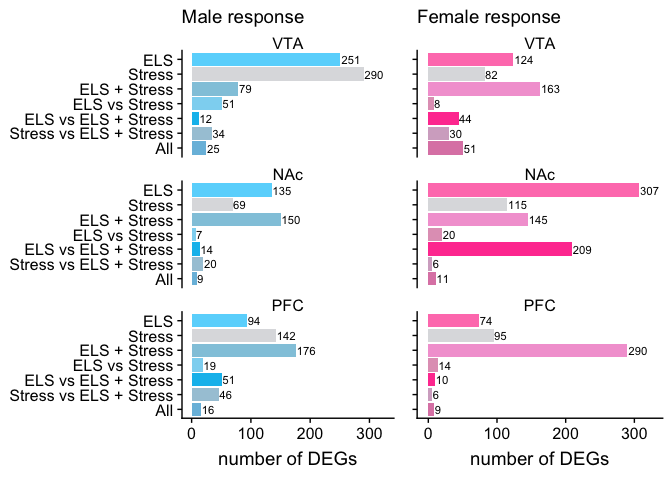
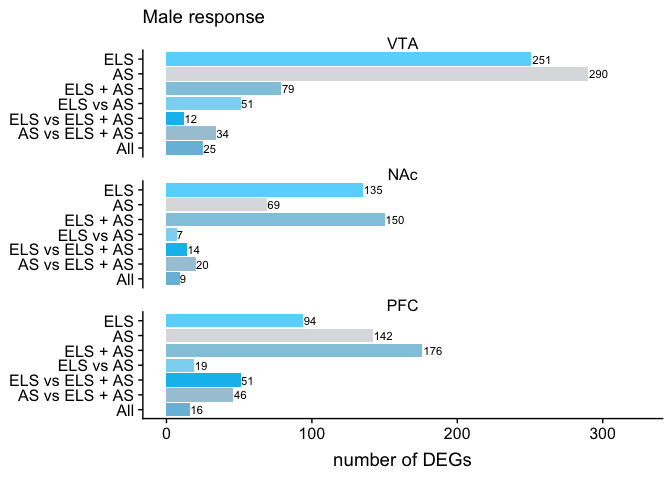
more figs, new name

diff --git a/fig1venn.md b/fig1venn.md
@@ -5,24 +5,35 @@
     knitr::opts_chunk$set(fig.path = './')
 
     fig1venn <- read.csv("fig1venn.csv")
+
+    head(fig1venn)
+
+    ##   panel    sex region group number
+    ## 1     a   male    VTA   ELS    251
+    ## 2     f female    VTA   ELS    124
+    ## 3     i   male    NAc   ELS    135
+    ## 4     n female    NAc   ELS    307
+    ## 5     q   male    PFC   ELS     94
+    ## 6     v female    PFC   ELS     74
+
     summary(fig1venn)
 
-    ##  panel     sex     region                      group       number     
-    ##  a:7   female:21   NAc:14   All                   :6   Min.   :  6.0  
-    ##  f:7   male  :21   PFC:14   ELS                   :6   1st Qu.: 14.5  
-    ##  i:7               VTA:14   ELS + Stress          :6   Median : 51.0  
-    ##  n:7                        ELS vs ELS + Stress   :6   Mean   : 83.4  
-    ##  q:7                        ELS vs Stress         :6   3rd Qu.:132.2  
-    ##  v:7                        Stress                :6   Max.   :307.0  
-    ##                             Stress vs ELS + Stress:6
+    ##  panel     sex     region               group       number     
+    ##  a:7   female:21   NAc:14   All            :6   Min.   :  6.0  
+    ##  f:7   male  :21   PFC:14   AS             :6   1st Qu.: 14.5  
+    ##  i:7               VTA:14   AS vs ELS + AS :6   Median : 51.0  
+    ##  n:7                        ELS            :6   Mean   : 83.4  
+    ##  q:7                        ELS + AS       :6   3rd Qu.:132.2  
+    ##  v:7                        ELS vs AS      :6   Max.   :307.0  
+    ##                             ELS vs ELS + AS:6
 
     fig1venn$region <- factor(fig1venn$region, levels = c("VTA", "NAc", "PFC")) 
     fig1venn$group <- factor(fig1venn$group, levels = c("All" ,  
-                                                           "Stress vs ELS + Stress",
-                                                           "ELS vs ELS + Stress" ,
-                                                           "ELS vs Stress",
-                                                           "ELS + Stress",
-                                                           "Stress",
+                                                           "AS vs ELS + AS",
+                                                           "ELS vs ELS + AS" ,
+                                                           "ELS vs AS",
+                                                           "ELS + AS",
+                                                           "AS",
                                                            "ELS" 
                                                            ))
 
@@ -38,11 +49,11 @@
       scale_x_discrete(drop=FALSE)+
       scale_y_continuous(limits=c(0, 325)) +
       scale_fill_manual(values = c("All" = "#79BDDE",  
-                                    "Stress vs ELS + Stress" = "#A7C8D9",
-                                    "ELS vs ELS + Stress" = "#03BEEE" ,
-                                    "ELS vs Stress" = "#8DD6F2",
-                                    "ELS + Stress" = "#92C9DE",
-                                    "Stress" = "#DDDEE0",
+                                    "AS vs ELS + AS" = "#A7C8D9",
+                                    "ELS vs ELS + AS" = "#03BEEE" ,
+                                    "ELS vs AS" = "#8DD6F2",
+                                    "ELS + AS" = "#92C9DE",
+                                    "AS" = "#DDDEE0",
                                     "ELS" = "#69D7FC" )) +
       geom_text(aes(label=number),size=3, hjust = -0.05) +
       guides(fill = guide_legend(reverse = TRUE)) +
@@ -51,7 +62,9 @@
             strip.background = element_rect( fill="white")) +
       labs(subtitle = "Male response",
            x = NULL, y = "number of DEGs") 
+    m
 
+![](./fig1venn-1.png)
 
     f <- ggplot(data=females, aes(x=group, y = number,  fill = group)) + 
       geom_bar(stat="identity")  + 
@@ -60,22 +73,24 @@
       scale_x_discrete(drop=FALSE)+
       scale_y_continuous(limits=c(0, 325)) +
       scale_fill_manual(values = c("All" = "#DE87B3",  
-                                    "Stress vs ELS + Stress" = "#D4AEC9",
-                                    "ELS vs ELS + Stress" = "#FF469F" ,
-                                    "ELS vs Stress" = "#E2A1BF",
-                                    "ELS + Stress" = "#F3A4D5",
-                                    "Stress" = "#DDDEE0",
+                                    "AS vs ELS + AS" = "#D4AEC9",
+                                    "ELS vs ELS + AS" = "#FF469F" ,
+                                    "ELS vs AS" = "#E2A1BF",
+                                    "ELS + AS" = "#F3A4D5",
+                                    "AS" = "#DDDEE0",
                                     "ELS" = "#FF80BB" )) +
       geom_text(aes(label=number),size=3, hjust = -0.05) +
       guides(fill = guide_legend(reverse = TRUE)) +
       theme(legend.title = element_blank(),
             legend.position = "none",
-            axis.text.y=element_blank(),
             strip.background = element_rect( fill="white")) +
       labs(subtitle = "Female response",
            x = NULL, y = "number of DEGs") 
+    f
 
+![](./fig1venn-2.png)
 
-    plot_grid(m,f, nrow = 1, rel_widths = c(0.6,0.4))
+    plot_grid(m, f + theme(axis.text.y=element_blank()), 
+              nrow = 1, rel_widths = c(0.6,0.4))
 
-![](./fig1venn-1.png)
+![](./fig1venn-3.png)
